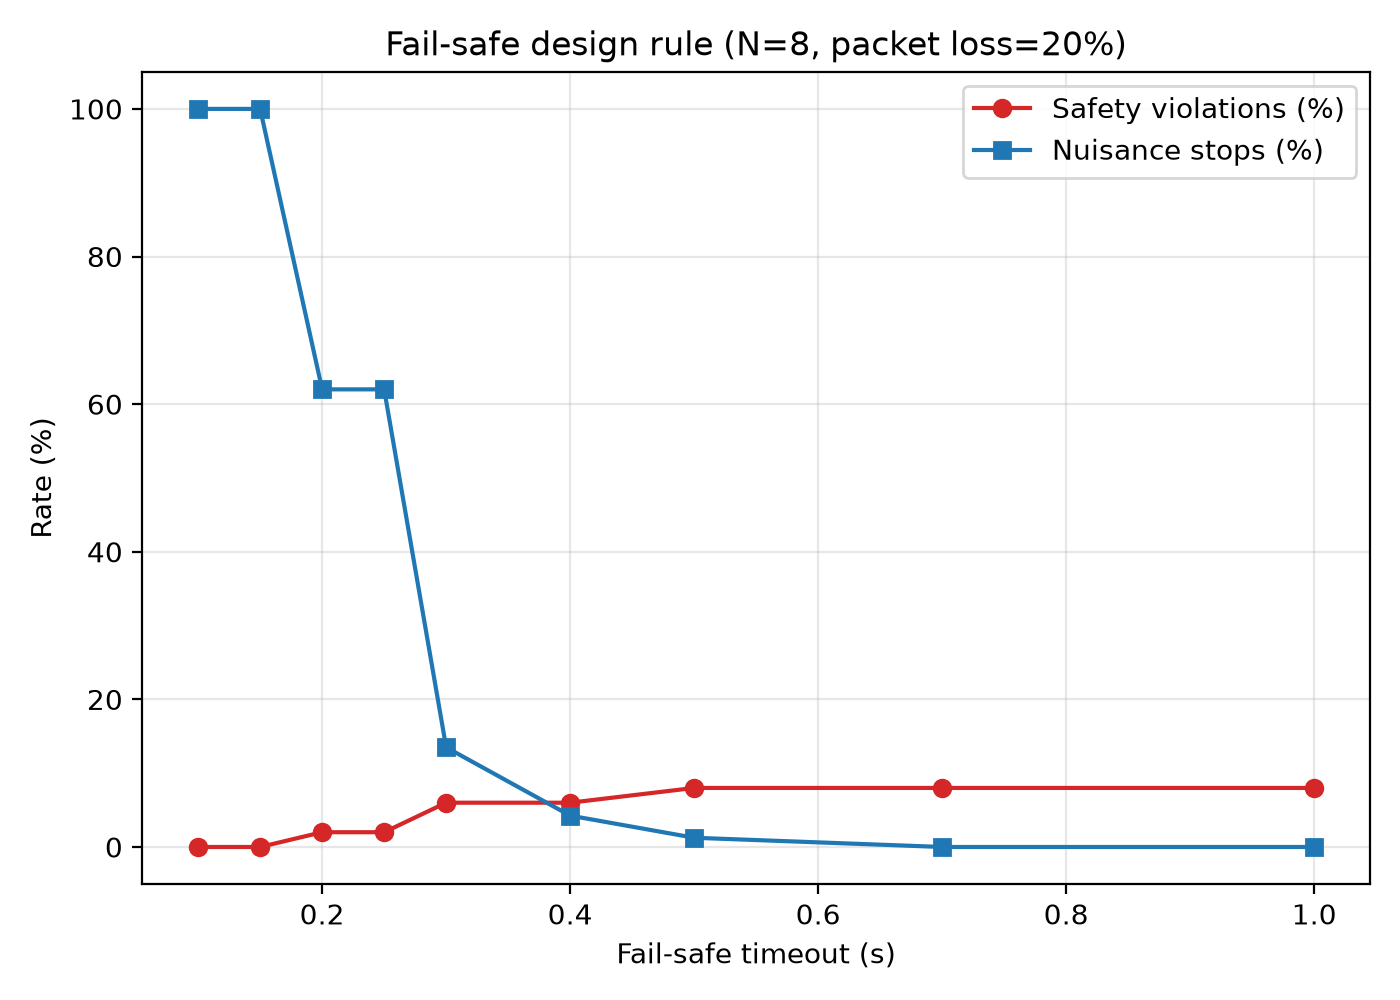
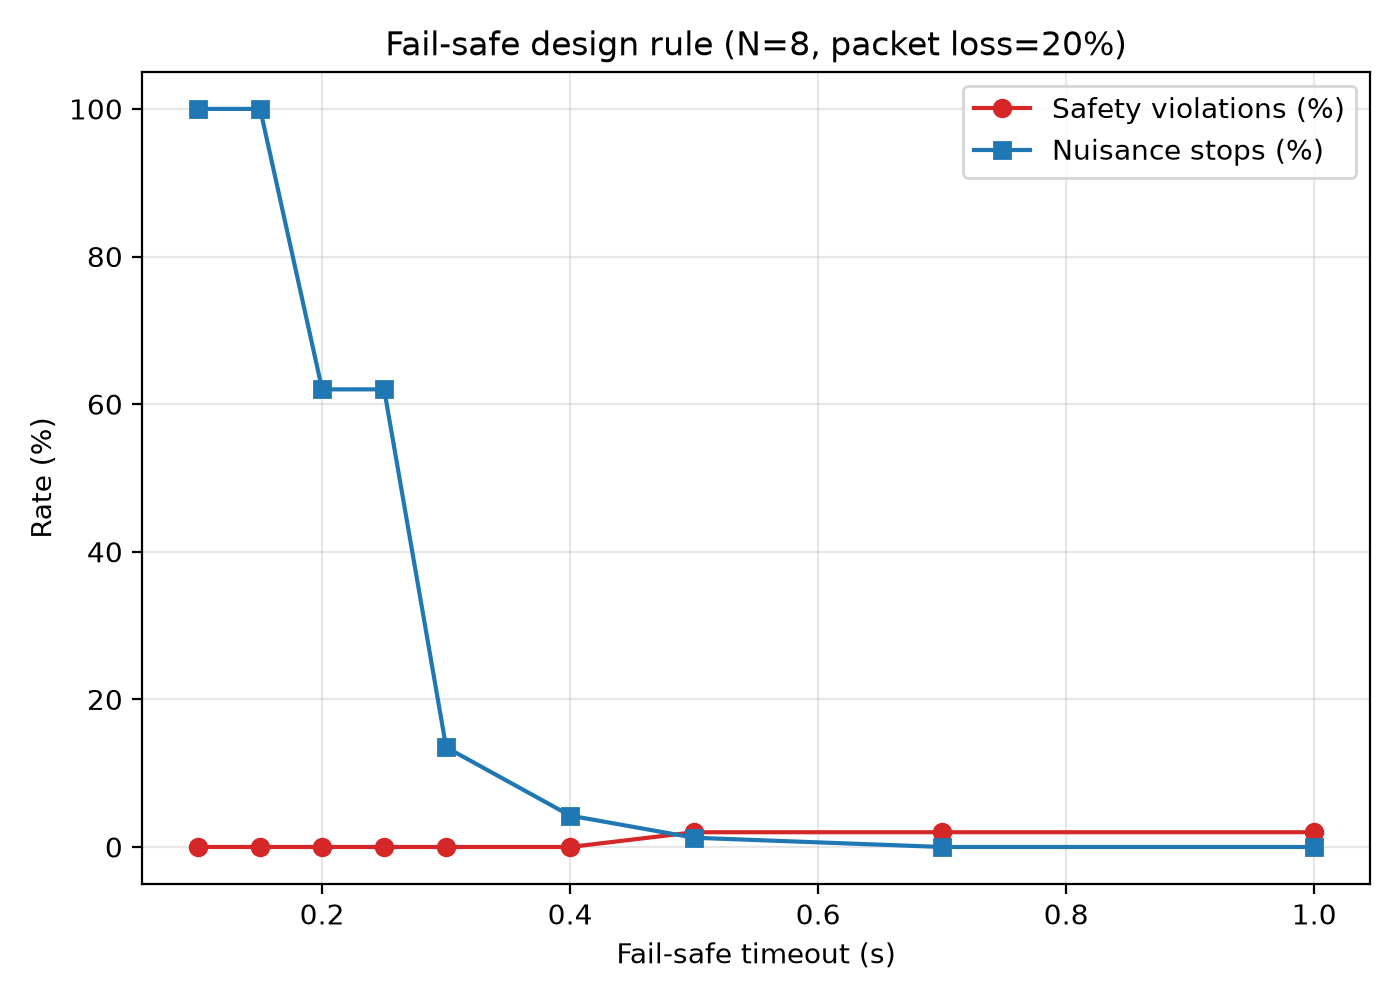
Rebuild confusion matrix and all figures from clean counterbalanced data

Changed region(s): [[0.1843, 0.775, 0.9521, 0.868]]

diff --git a/per_condition_cb.py b/per_condition_cb.py
@@ -1,0 +1,54 @@
+# per_condition_cb.py
+# Per-condition accuracy on the COUNTERBALANCED recordings.
+# Because condition order was randomized across participants, accuracy
+# differences here ARE attributable to the condition (no practice confound).
+
+import glob, csv, os
+from collections import defaultdict
+from classifier import classify
+
+GESTURES = ["CIRCLE","LINE","CLUSTER","SPLIT","STOP","WAIT"]
+
+def cond(fn):
+    n = os.path.basename(fn).lower()
+    d = "far" if "far" in n else "near"
+    l = "dim" if "dim" in n else "bright"
+    return f"{d}_{l}"
+
+correct = defaultdict(int); total = defaultdict(int)
+g_correct = defaultdict(lambda: defaultdict(int)); g_total = defaultdict(lambda: defaultdict(int))
+
+for path in sorted(glob.glob("data/gesture_recordings_cb/*.csv")):
+    c = cond(path)
+    with open(path) as f:
+        for row in csv.DictReader(f):
+            g = row["intended_gesture"]
+            if g not in GESTURES: continue
+            coords=[]
+            for i in range(21):
+                coords += [float(row[f"x{i}"]),float(row[f"y{i}"]),float(row[f"z{i}"])]
+            total[c]+=1; g_total[c][g]+=1
+            if classify(coords, row.get("handedness","Right"))==g:
+                correct[c]+=1; g_correct[c][g]+=1
+
+conds = sorted(total.keys())
+print("=== Accuracy by condition (counterbalanced data) ===\n")
+for c in conds:
+    a = correct[c]/total[c]*100 if total[c] else 0
+    print(f"  {c:12s}: {a:5.1f}%   ({correct[c]}/{total[c]} frames)")
+
+print("\n=== Per-gesture by condition ===")
+print(f"\n{'Gesture':10s}" + "".join(f"{c:>14s}" for c in conds))
+for g in GESTURES:
+    line=f"{g:10s}"
+    for c in conds:
+        t=g_total[c][g]; a=g_correct[c][g]/t*100 if t else 0
+        line+=f"{a:13.1f}%"
+    print(line)
+
+with open("data/accuracy_by_condition_cb.csv","w",newline="") as f:
+    w=csv.writer(f); w.writerow(["condition","accuracy_pct","frames"])
+    for c in conds:
+        a=correct[c]/total[c]*100 if total[c] else 0
+        w.writerow([c, round(a,2), total[c]])
+print("\nSaved data/accuracy_by_condition_cb.csv")

diff --git a/build_confusion.py b/build_confusion.py
@@ -16,7 +16,7 @@ total_frames = 0
 per_gesture_correct = defaultdict(int)
 per_gesture_total = defaultdict(int)
 
-for path in sorted(glob.glob("data/gesture_recordings/*.csv")):
+for path in sorted(glob.glob("data/gesture_recordings_cb/*.csv")):
     with open(path) as f:
         reader = csv.DictReader(f)
         for row in reader:
